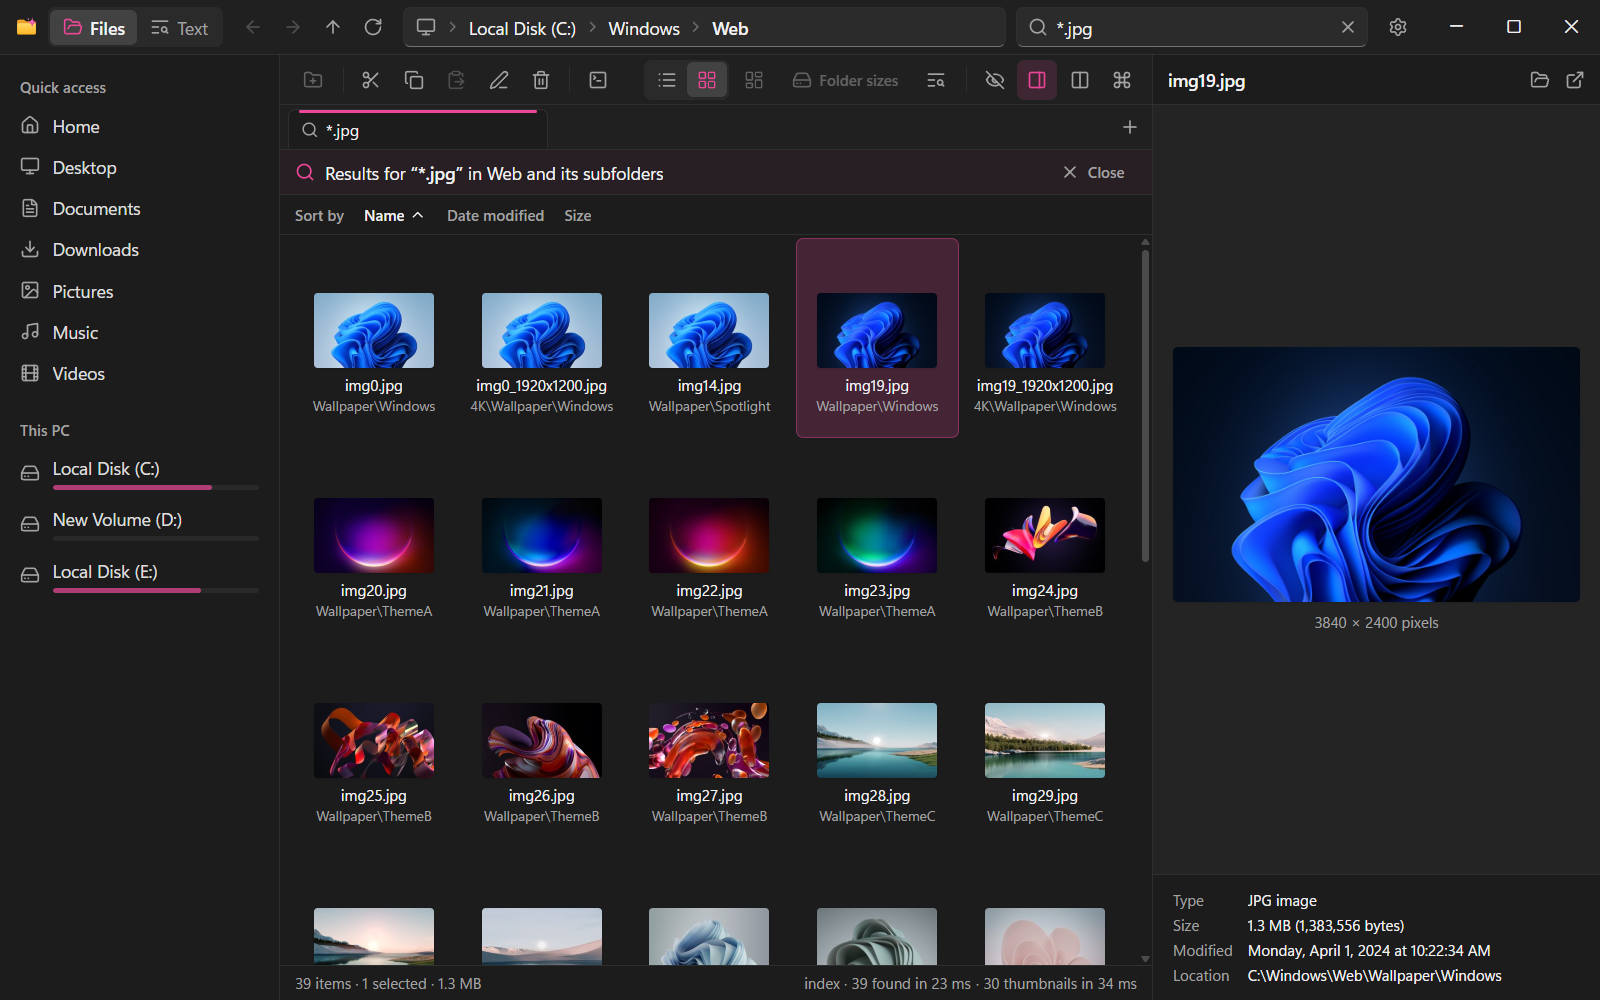
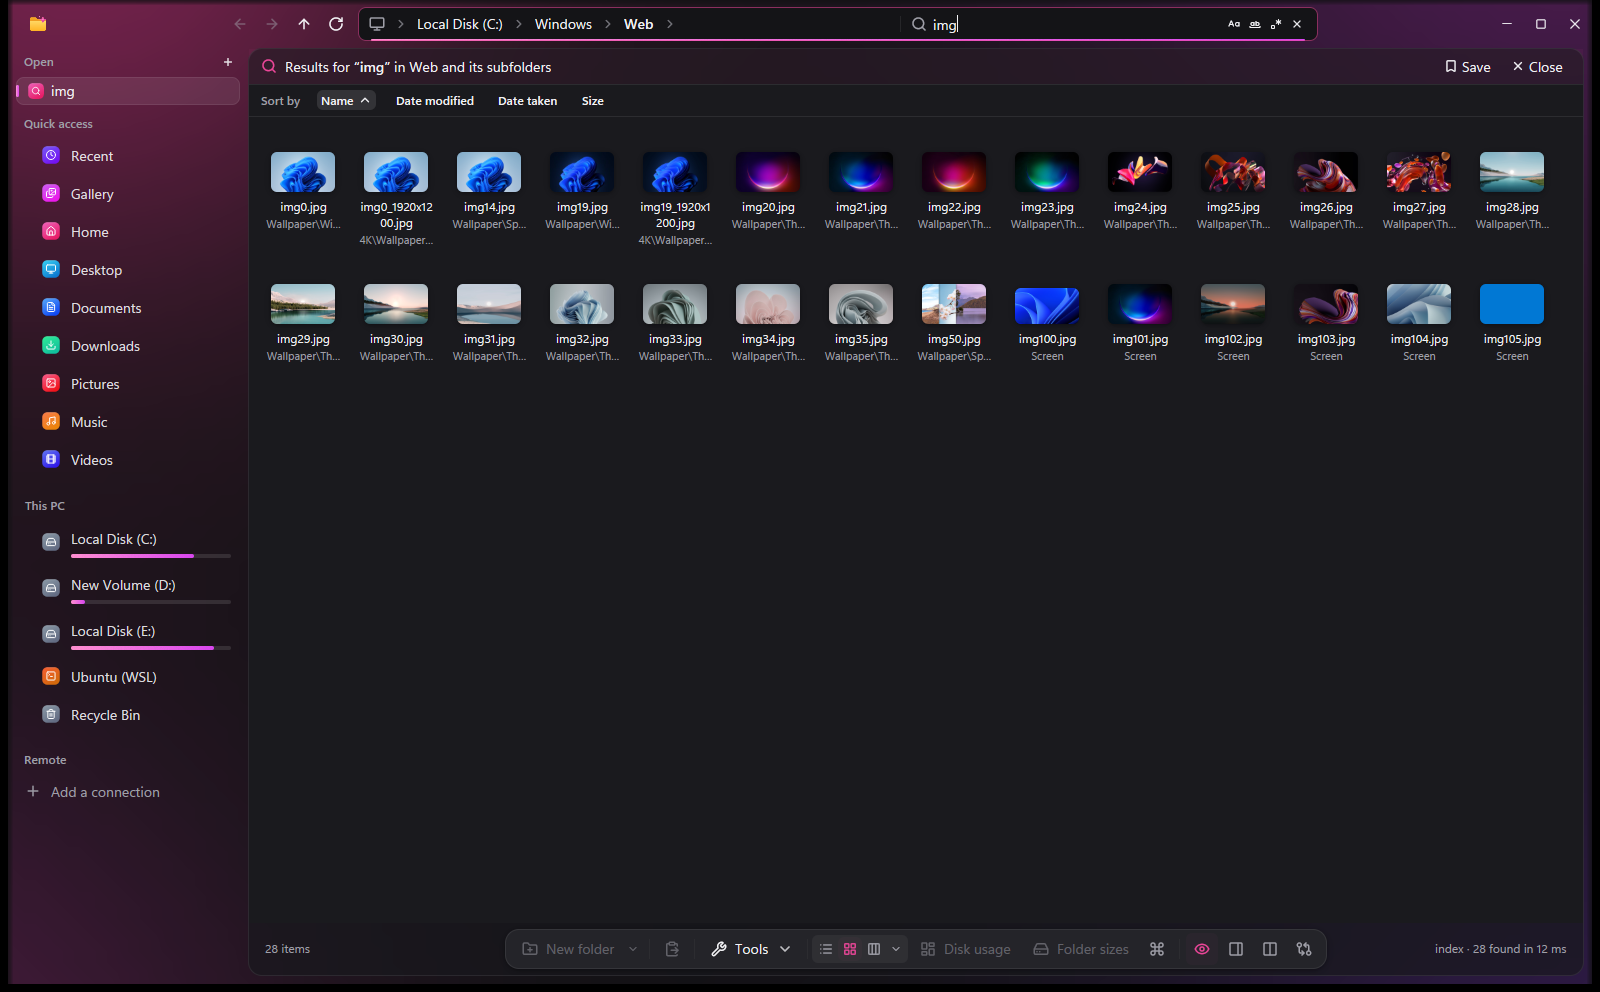
docs: the README's pictures, taken again in the new window
Every picture still showed the window as it was before 0.11: a strip of tabs, a toolbar, the Files | Text switch.

- Ten screenshots taken again in 0.11's window (1600 x 992, dark): folder sizes, two panes, the grid, the disk usage
  map, Quick Look, the command palette, the File X-Ray, batch rename, instant search, and text-search.png, which is
  now the one search (names, then files found by what is in them with their lines). The README shows that one in
  "One search"; the website's source uses it under the same name, with new words.
- demo.gif is seven of them in turn (1280 x 794, 2.5 s each, 1.4 MB; it was a 2.9 MB recording of the old window).
- Captions say what each picture shows now.

They are pictures of the real app (the optimized build of this code, a fresh profile, real input, PrintWindow), in a
made-up folder (…\Users\Sam\Documents\Work\2026\Workspace) and in C:\Windows, so nothing of anyone's own is in
them. The website itself is not deployed by this.

diff --git a/site/src/content/site.ts b/site/src/content/site.ts
@@ -114,11 +114,11 @@ export const MORE = {
   lines: ["What File Explorer", "leaves out."],
   cards: [
     { shot: "disk-usage", title: "A map of your drive", text: "Every folder and file as a block the size of the space it takes, like WizTree.", alt: "The disk usage map of C:\\Windows: every folder and file as a block sized by how much space it takes" },
-    { shot: "dual-pane", title: "Tabs, and two panes", text: "Copy and move between two folders, or compare them and sync.", alt: "Two panes side by side, each with its own tabs" },
+    { shot: "dual-pane", title: "Tabs, and two panes", text: "Copy and move between two folders, or compare them and sync.", alt: "Two panes side by side, each with its own list of tabs in the rail" },
     { shot: "grid-view", title: "Thumbnails that never wait", text: "1,200 photos on screen in 9.3 ms, thumbnails from Windows' own cache.", alt: "Wallpapers found by name and shown as a grid of thumbnails" },
     { shot: "quick-look", title: "Quick Look on Space", text: "Any file full size without opening it: code, pictures, PDFs, Office files.", alt: "Quick Look showing a Rust file with syntax highlighting" },
-    { shot: "text-search", title: "Search inside files", text: "ripgrep in any folder, with regular expressions and replace.", alt: "ripgrep results with a syntax-highlighted preview" },
-    { shot: "command-palette", title: "Ctrl+K for everything", text: "Jump to the folders you use most, or run any command, by typing.", alt: "The command palette with recent folders and commands" },
+    { shot: "text-search", title: "One search", text: "Names and what the files hold, in one list: a file found by its contents is a row like any other.", alt: "A search for one word: the file with it in its name, then the files with it inside them, each with the lines that matched" },
+    { shot: "command-palette", title: "Ctrl+K for everything", text: "Jump to the folders you use most, or run any command, by typing.", alt: "The command palette listing the commands that match what was typed" },
   ],
   also: ["Archives that open like folders", "Git status in every folder", "A terminal under the files", "Checksums and File X-Ray", "Batch rename with Undo", "Duplicates and Clean up", "Send files to another PC", "S3, WebDAV and SFTP folders"],
 };

diff --git a/README.md b/README.md
@@ -17,7 +17,7 @@ Built in Rust on [fd](https://github.com/sharkdp/fd), [pdu](https://github.com/K
 
 **[Download the installer](https://github.com/shadijhade/glint/releases/latest/download/Glint-setup.exe)** · [Website](https://glint.rafd.tech/) · [Benchmarks](#benchmarks) · [Features](#features) · [Shortcuts](#keyboard-shortcuts) · [Build from source](#build-from-source)
 
-<img src="screenshots/demo.gif" alt="Opening folders, finding files in every subfolder, Quick Look, folder sizes, the command palette and two panes side by side" width="100%">
+<img src="screenshots/demo.gif" alt="Glint in seven pictures: a folder with its head and a preview, one search for names and for what the files hold, Quick Look, folder sizes, the disk usage map, two panes side by side, and the command palette" width="100%">
 
 </div>
 
@@ -180,7 +180,7 @@ Each time runs from pressing Enter until everything is on screen, as the app's s
 
 ### Tabs and dual pane
 
-<img src="screenshots/dual-pane.png" alt="Two panes side by side, each with its own tabs: C:\Windows sorted by size, and a project's source folder" width="100%">
+<img src="screenshots/dual-pane.png" alt="Two panes side by side, each with its own list of tabs in the rail: a work folder as a list, and its photos as a grid" width="100%">
 
 -   **Tabs.** `Ctrl+T` opens a tab on the folder you're in, and tabs drag: along their list in the side rail, onto the other pane's (or its files), or to the far half of the files to open side by side. A middle-click (or `Ctrl+Enter`) opens a folder in a new tab behind the current one, as in a browser. `Ctrl+Tab` and `Ctrl+1`…`Ctrl+9` switch, `Ctrl+W` closes, and `Ctrl+Shift+T` brings the last one back. Each tab keeps its own history, selection, search and scroll position, and your tabs come back when the app starts (Settings → Reopen my tabs). A folder opened from File Explorer or a terminal (`Glint.exe C:\Projects`) gets a new tab in the window that's open: Glint runs once.
 -   **Dual pane.** `Ctrl+Shift+D` (or its button in the dock) shows two folders side by side, each pane with its own tabs. Click a pane or press `F6` to work in it: the other one steps back a little, and the address bar shows which pane it's on. Drag files across (`Shift` to move), or use **Copy to other pane** and **Move to other pane**, which run on Windows' own file engine like every other file operation. Drag the line between the panes to share out the width (double-click: halves again); each pane's menu, by its tabs, swaps the panes (`Ctrl+Shift+U`), shows a folder in the other pane, evens them out or closes one, and a folder's right-click menu has **Open in the other pane**.
@@ -194,7 +194,7 @@ Each time runs from pressing Enter until everything is on screen, as the app's s
 
 ### Grid view
 
-<img src="screenshots/grid-view.png" alt="Every wallpaper under C:\Windows\Web found by name and shown as a grid of thumbnails, each with its folder under it" width="100%">
+<img src="screenshots/grid-view.png" alt="The wallpapers under C:\Windows\Web found by name in 12 ms and shown as a grid of thumbnails, each with its folder under it" width="100%">
 
 The **List** and **Grid** buttons in the command bar (or `Ctrl+Shift+6` and `Ctrl+Shift+2`, as in Explorer, or `Ctrl+K`) switch the tab you're in; each tab keeps its own view, and new tabs start in the view of the tab they came from. The grid works like the list: click, `Ctrl` and `Shift` to select, arrow keys in all four directions, `Enter` to open, `Space` for Quick Look, `F2` to rename, drag and drop (into the other pane too), the right-click menu and folder sizes under each folder. Sort it from the bar above it.
 
@@ -227,7 +227,7 @@ With instant search on, the map comes from the index in one request: all of `C:\
 <table>
 <tr>
 <td width="50%"><img src="screenshots/quick-look.png" alt="Quick Look showing a Rust file with syntax highlighting"></td>
-<td width="50%"><img src="screenshots/command-palette.png" alt="The command palette with recent folders and commands"></td>
+<td width="50%"><img src="screenshots/command-palette.png" alt="The command palette listing the commands that match what was typed"></td>
 </tr>
 <tr>
 <td align="center"><b>Space</b>: Quick Look</td>
@@ -274,8 +274,8 @@ These work on files on disk, not inside archives.
 
 <table>
 <tr>
-<td width="50%"><img src="screenshots/file-xray.png" alt="The File X-Ray of a downloaded installer: its SHA-256 matches the published one, and Windows' downloaded-from-the-internet mark with Unblock"></td>
-<td width="50%"><img src="screenshots/batch-rename.png" alt="Batch rename of twelve photos to a date, a name and a number, with each new name previewed"></td>
+<td width="50%"><img src="screenshots/file-xray.png" alt="The File X-Ray of a downloaded program: who signed it, what it really is, and its SHA-256 matching the checksum pasted in"></td>
+<td width="50%"><img src="screenshots/batch-rename.png" alt="Batch rename of ten photos to a name, the date each was taken and a number, with each new name previewed"></td>
 </tr>
 <tr>
 <td align="center"><b>File X-Ray</b>: check a download against its published SHA-256</td>
@@ -285,7 +285,7 @@ These work on files on disk, not inside archives.
 
 ### Instant search (NTFS index)
 
-<img src="screenshots/instant-search.png" alt="5,015 DLLs found under System32 in 37 ms" width="100%">
+<img src="screenshots/instant-search.png" alt="5,094 DLLs found under System32 and its subfolders in 33 ms" width="100%">
 
 It's off until you turn it on: on This PC, with the status bar's **Turn on instant search**, or in **Settings → Instant search**. Windows asks for administrator approval once, and a small service indexes your fixed NTFS drives. When Glint updates, the service updates itself too, without asking again: it takes only a build signed with Glint's update key, and only a newer one. It reads each drive's Master File Table in one sequential pass (2.3–2.5 s for C: with 2.9 million records here), then follows the USN journal, so a file created, renamed or deleted anywhere is in the index within about 0.3 s. Name searches, folder sizes and disk-usage maps then answer from memory. fd and pdu take over wherever the index can't answer: network shares, FAT and exFAT drives, and searches that read `.gitignore`.
 
@@ -311,6 +311,8 @@ Agents that show apps (MCP Apps) draw `folder_sizes` and `largest_files` as a ma
 ### One search: names, and what the files hold
 
 The search box at the end of the address field looks for what you type in two places at once: in the names below the folder you're in, and inside the files there. Both come back as one list.
+
+<img src="screenshots/text-search.png" alt="A search for one word: the file with it in its name, then seven files with it inside them, each with the lines that matched" width="100%">
 
 -   **Files found by what's in them are rows like any other.** They are listed under **Inside files**, each with the lines that matched under it (the line's number, the match marked; the first three, then a count of the rest). Open, copy, rename, delete, drag or preview them as you would any result.
 -   **Typing filters the folder; Enter searches below it.** Names come as you type where instant search covers the drive. What the files hold is read on Enter by ripgrep, streaming in as it's found, or as you type where the content index covers the folder. A whole drive is read inside only when you ask (**Inside files too** on the results' bar).
